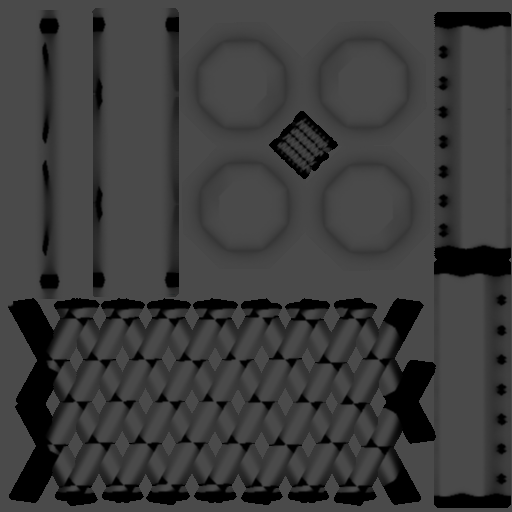
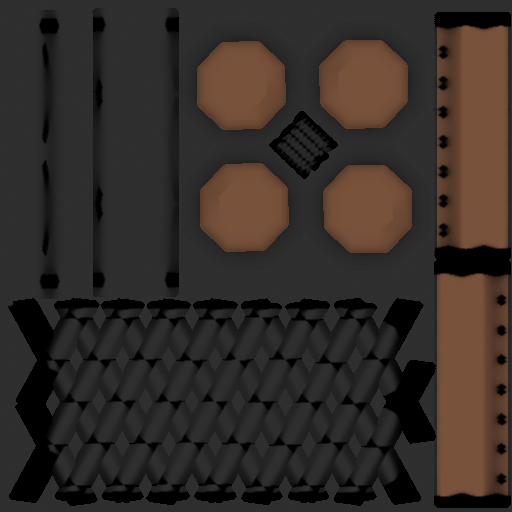
Bridge Material

diff --git a/ICGame/MainGame.cs b/ICGame/MainGame.cs
@@ -65,6 +65,7 @@ namespace VertexArmy
 			PrefabRepository.Instance.RegisterPrefab( "LiftedDoor", LiftedDoorPrefab.CreatePrefab() );
 			PrefabRepository.Instance.RegisterPrefab( "Trigger", TriggerPrefab.CreatePrefab() );
 			PrefabRepository.Instance.RegisterPrefab( "Saf", SafPrefab.CreatePrefab() );
+			PrefabRepository.Instance.RegisterPrefab( "FloorBridge", FloorBridgePrefab.CreatePrefab() );
 			PrefabRepository.Instance.RegisterPrefab( "UpgradePlatform", UpgradePlatformPrefab.CreatePrefab() );
 
 			PrefabRepository.Instance.RegisterPrefab( "WallBackground", SimpleMeshPrefab.CreatePrefab( "models/quad", "WallMaterial", "wall-node" ) );
@@ -88,7 +89,7 @@ namespace VertexArmy
 			MaterialRepository.Instance.RegisterMaterial( "OuterDoorMaterial", args => UnlitMaterial.CreateMaterial( "door_outer_COLOR" ) );
 			MaterialRepository.Instance.RegisterMaterial( "WallMaterial", args => UnlitMaterial.CreateMaterial( "flat_gray" ) );
 			MaterialRepository.Instance.RegisterMaterial( "TileMaterial", args => UnlitMaterial.CreateMaterial( "flat_dark_gray" ) );
-			PrefabRepository.Instance.RegisterPrefab( "FloorBridge", args => UnlitMaterial.CreateMaterial( "flat_dark_gray" ) );
+			MaterialRepository.Instance.RegisterMaterial( "FloorBridgeMaterial", args => UnlitMaterial.CreateMaterial( "bridge_COLOR" ) );
 		}
 
 		protected override void UnloadContent()

diff --git a/ICGame/States/GameStateTutorial.cs b/ICGame/States/GameStateTutorial.cs
@@ -281,9 +281,9 @@ namespace VertexArmy.States
 			dj.Frequency = 2f;
 			dj.DampingRatio = 0.4f;
 
-			//GameWorldManager.Instance.SpawnEntity( "UpgradePlatform", "upgrade_platform", new Vector3( 620f, 10f, 0f ) );
+			GameWorldManager.Instance.SpawnEntity( "UpgradePlatform", "upgrade_platform", new Vector3( 620f, 10f, 0f ) );
 
-			GameWorldManager.Instance.SpawnEntity( "FloorBridge", "bridge2", new Vector3( 620f, 100f, 0f ) );
+			//GameWorldManager.Instance.SpawnEntity( "FloorBridge", "bridge2", new Vector3( 620f, 100f, 0f ) );
 		}
 
 		public void LoadSemiStatics()
@@ -307,8 +307,8 @@ namespace VertexArmy.States
 		{
 			GameWorldManager.Instance.SpawnEntity( "Camera", "camera1", new Vector3( 0, -200, 800 ) );
 			GameWorldManager.Instance.SpawnEntity( "Robot", "robotPlayer", new Vector3( -150f, 100f, 0f ), new Vector3( 1.5f, 1.5f, 2.5f ) );
-			//GameWorldManager.Instance.SpawnEntity( "WallBackground", "wallBackground1",
-			//	new Vector3( 0f, 0f, -1200f ), Quaternion.CreateFromAxisAngle( Vector3.UnitX, -0.3f ), 150 );
+			GameWorldManager.Instance.SpawnEntity( "WallBackground", "wallBackground1",
+				new Vector3( 0f, 0f, -1200f ), Quaternion.CreateFromAxisAngle( Vector3.UnitX, -0.3f ), 150 );
 
 			Robot = GameWorldManager.Instance.GetEntity( "robotPlayer" );
 
